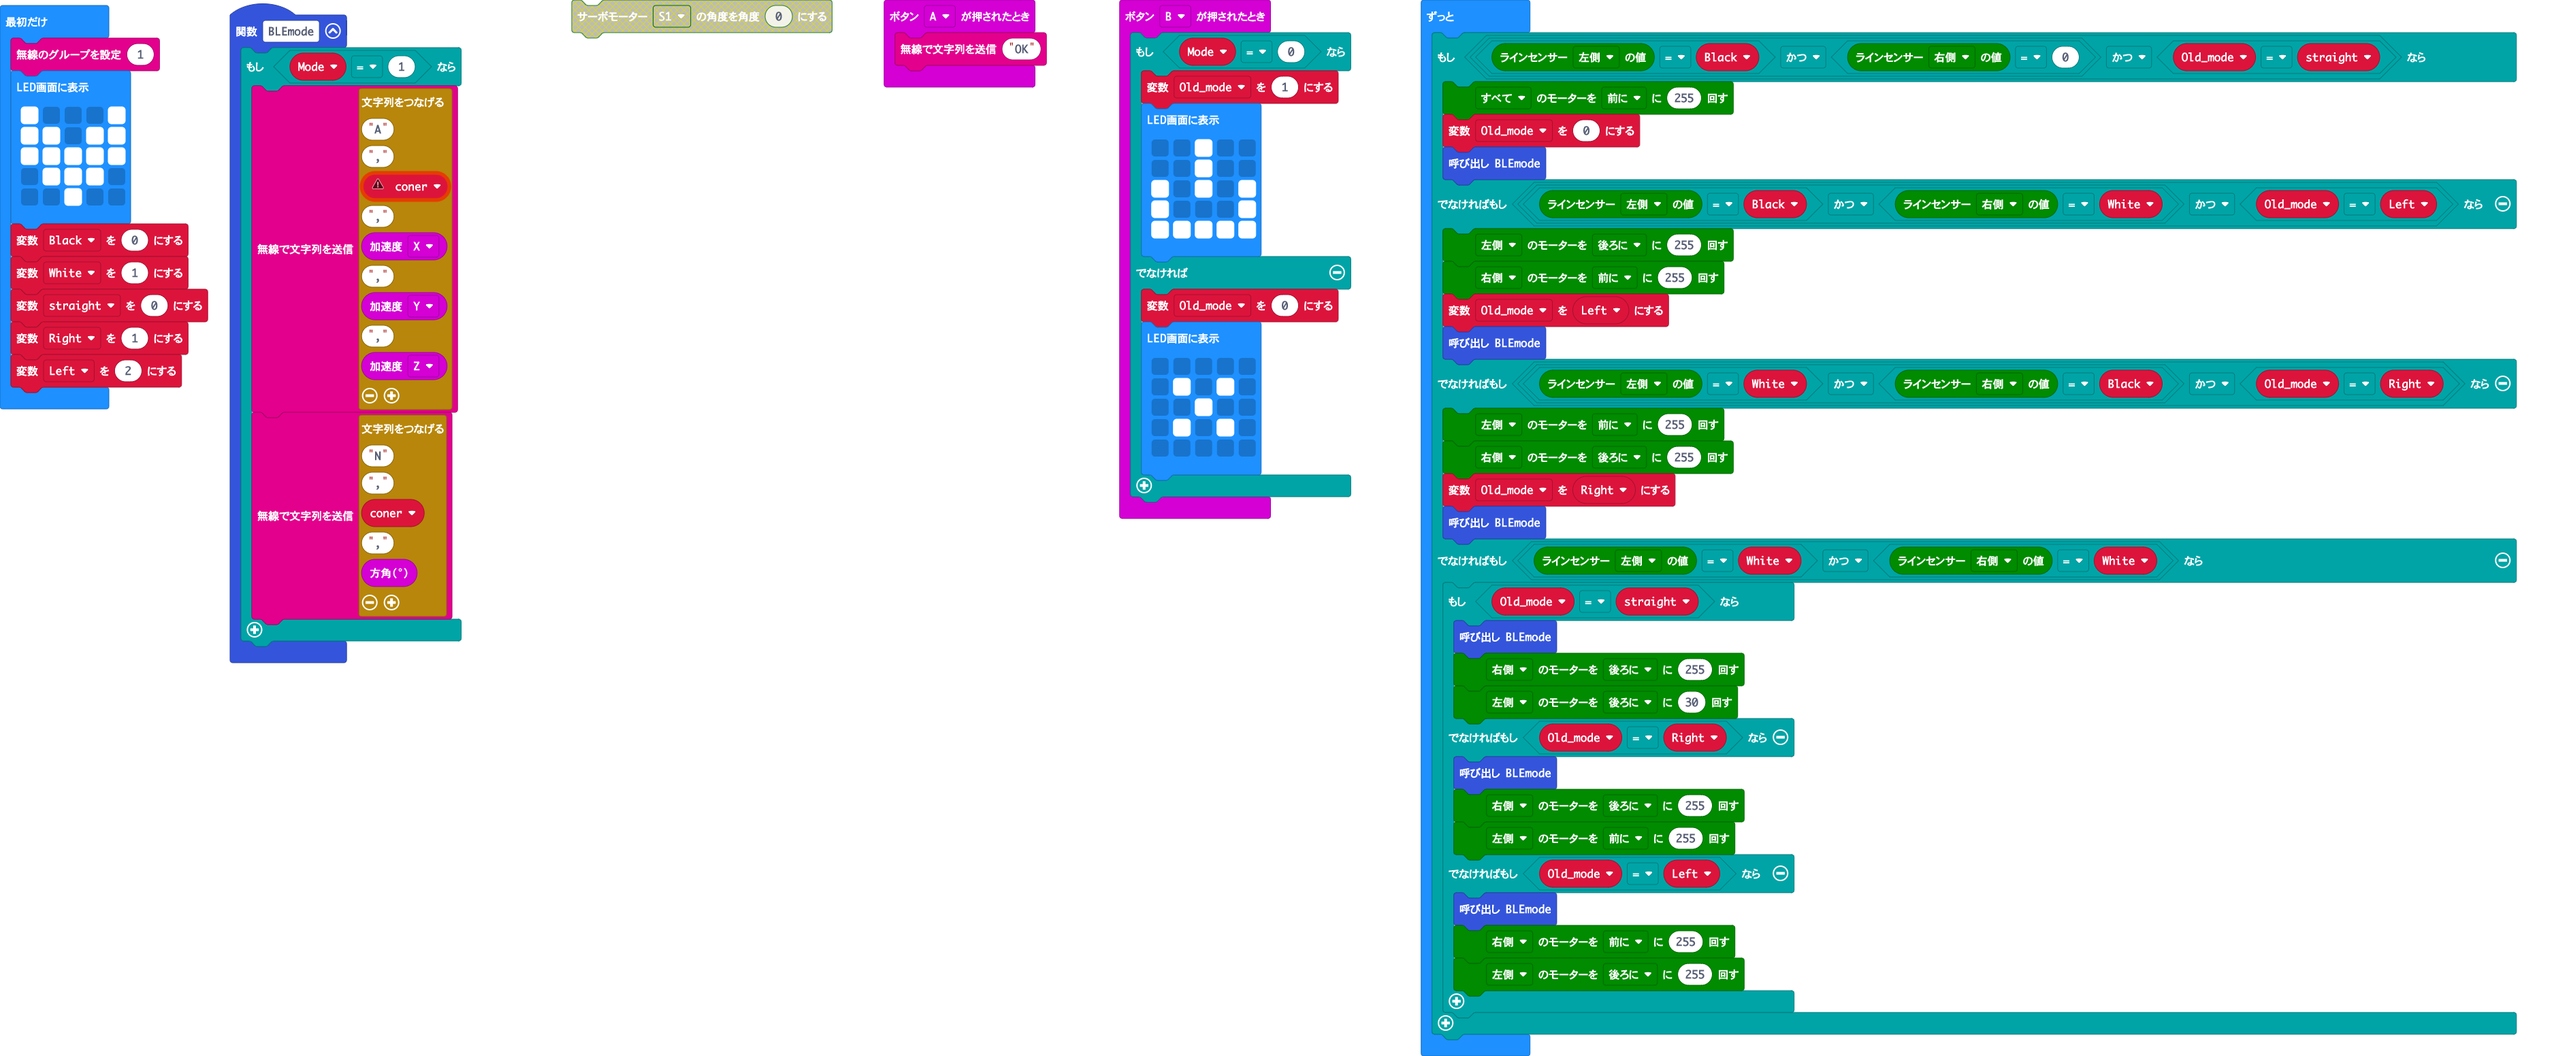
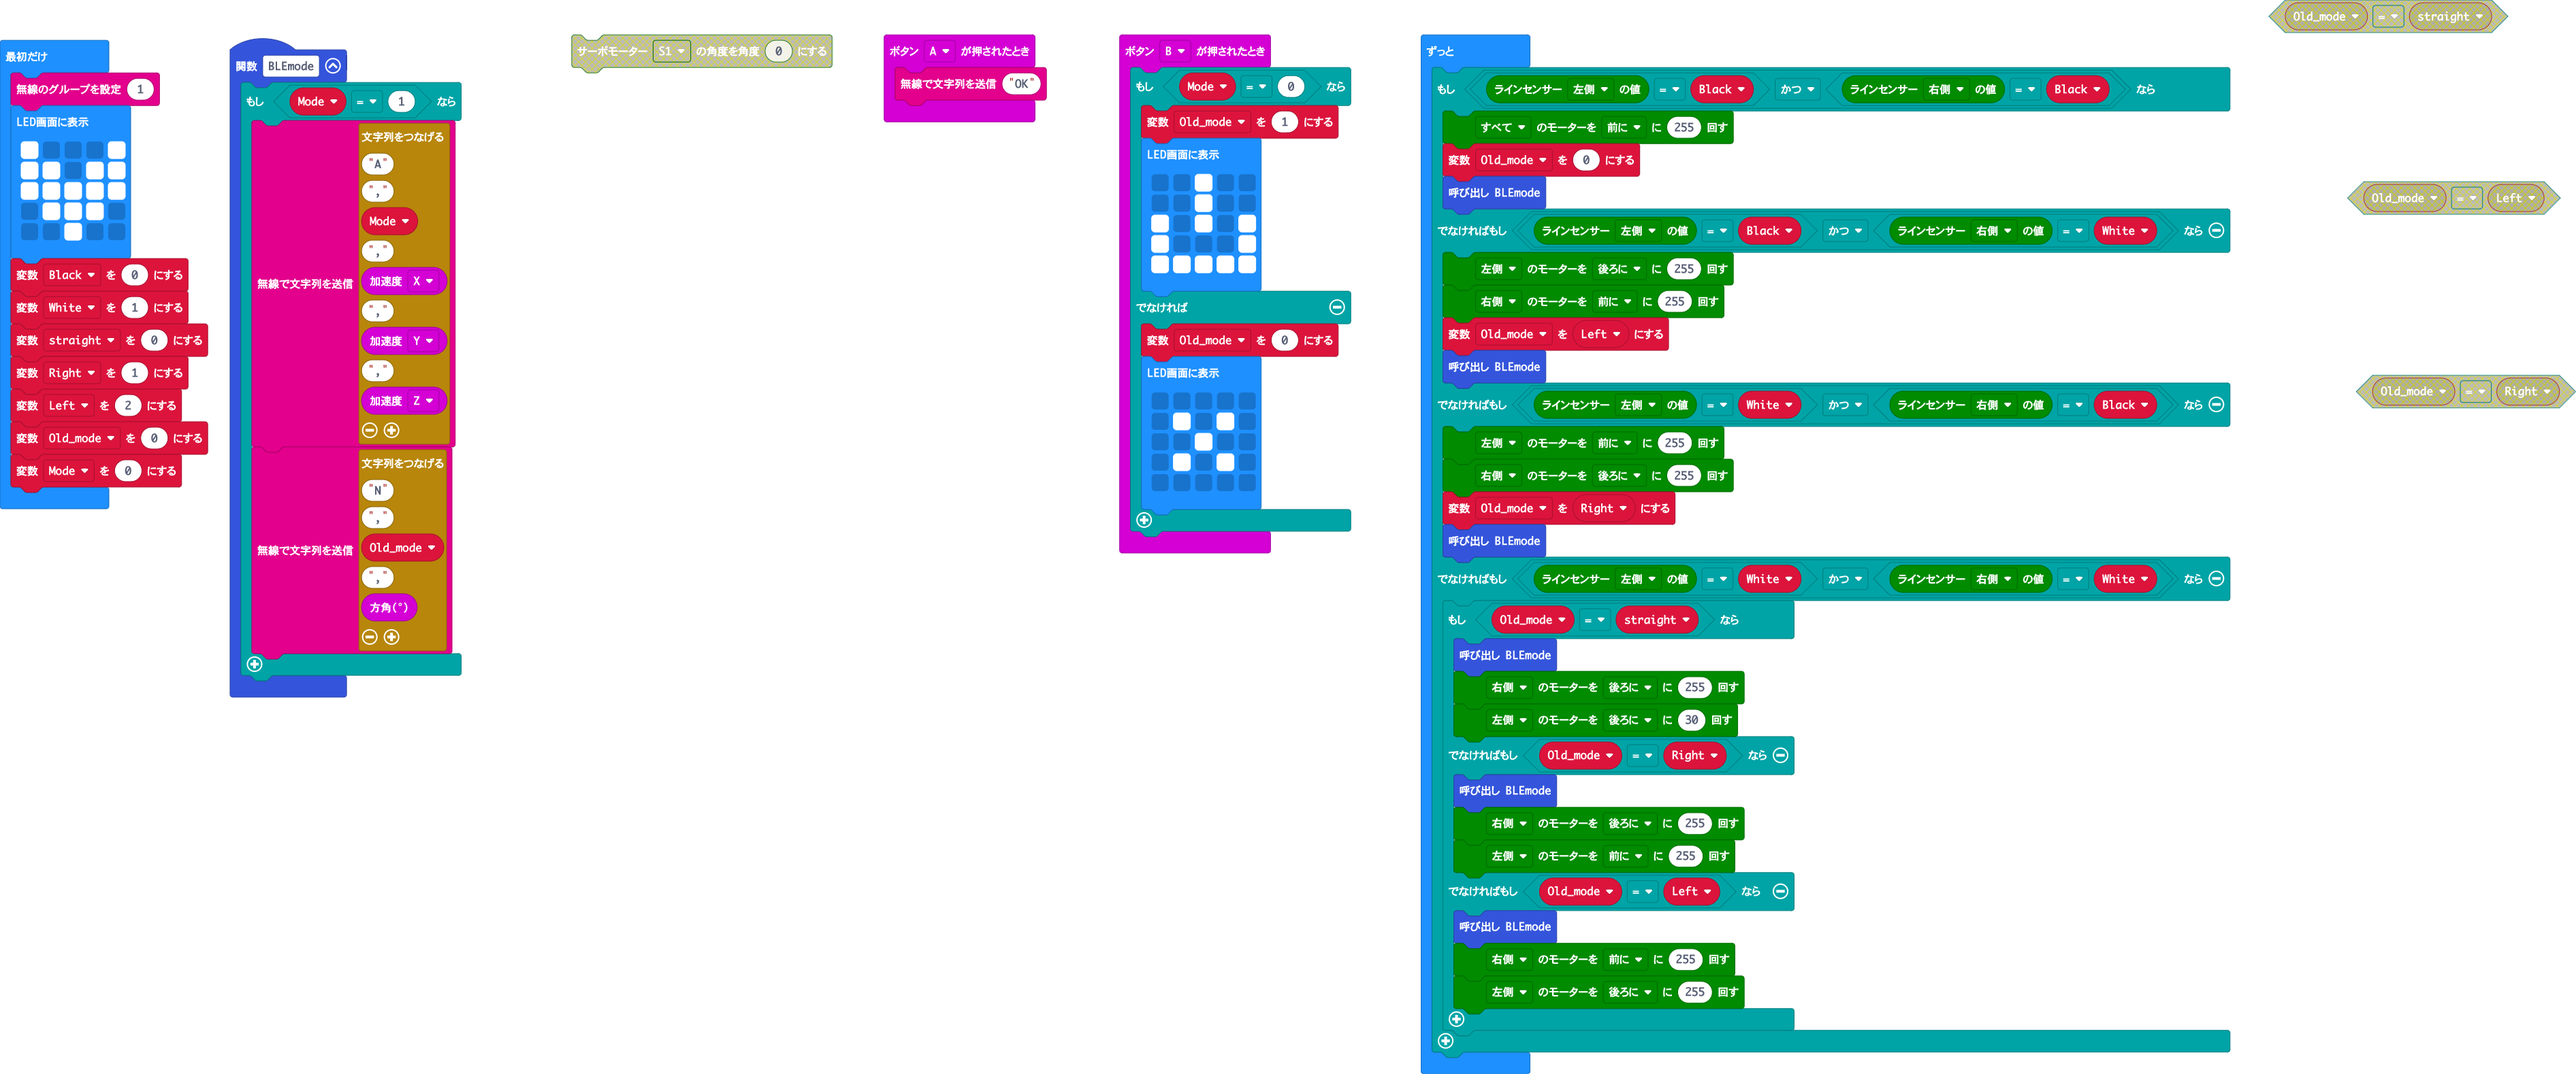
更新 main.blocks, main.ts

diff --git a/main.ts b/main.ts
@@ -3,9 +3,8 @@ input.onButtonPressed(Button.A, function () {
 })
 function BLEmode () {
     if (Mode == 1) {
-        let coner: null = null
-        radio.sendString("A" + "," + coner + "," + input.acceleration(Dimension.X) + "," + input.acceleration(Dimension.Y) + "," + input.acceleration(Dimension.Z))
-        radio.sendString("N" + "," + coner + "," + input.compassHeading())
+        radio.sendString("A" + "," + Mode + "," + input.acceleration(Dimension.X) + "," + input.acceleration(Dimension.Y) + "," + input.acceleration(Dimension.Z))
+        radio.sendString("N" + "," + Old_mode + "," + input.compassHeading())
     }
 }
 input.onButtonPressed(Button.B, function () {
@@ -29,8 +28,8 @@ input.onButtonPressed(Button.B, function () {
             `)
     }
 })
-let Old_mode = 0
 let Mode = 0
+let Old_mode = 0
 radio.setGroup(1)
 basic.showLeds(`
     # . . . #
@@ -44,17 +43,19 @@ let White = 1
 let straight = 0
 let Right = 1
 let Left = 2
+Old_mode = 0
+Mode = 0
 basic.forever(function () {
-    if (maqueen.readPatrol(maqueen.Patrol.PatrolLeft) == Black && maqueen.readPatrol(maqueen.Patrol.PatrolRight) == 0 && Old_mode == straight) {
+    if (maqueen.readPatrol(maqueen.Patrol.PatrolLeft) == Black && maqueen.readPatrol(maqueen.Patrol.PatrolRight) == Black) {
         maqueen.motorRun(maqueen.Motors.All, maqueen.Dir.CW, 255)
         Old_mode = 0
         BLEmode()
-    } else if (maqueen.readPatrol(maqueen.Patrol.PatrolLeft) == Black && maqueen.readPatrol(maqueen.Patrol.PatrolRight) == White && Old_mode == Left) {
+    } else if (maqueen.readPatrol(maqueen.Patrol.PatrolLeft) == Black && maqueen.readPatrol(maqueen.Patrol.PatrolRight) == White) {
         maqueen.motorRun(maqueen.Motors.M1, maqueen.Dir.CCW, 255)
         maqueen.motorRun(maqueen.Motors.M2, maqueen.Dir.CW, 255)
         Old_mode = Left
         BLEmode()
-    } else if (maqueen.readPatrol(maqueen.Patrol.PatrolLeft) == White && maqueen.readPatrol(maqueen.Patrol.PatrolRight) == Black && Old_mode == Right) {
+    } else if (maqueen.readPatrol(maqueen.Patrol.PatrolLeft) == White && maqueen.readPatrol(maqueen.Patrol.PatrolRight) == Black) {
         maqueen.motorRun(maqueen.Motors.M1, maqueen.Dir.CW, 255)
         maqueen.motorRun(maqueen.Motors.M2, maqueen.Dir.CCW, 255)
         Old_mode = Right
